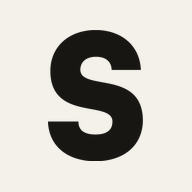
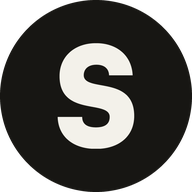
Circular cream-on-dark mark and short brand-first tab titles
Icon: the S now sits in a solid near-black circle in cream, which
reads on light, dark and red-tinted tab bars alike - the dark disc
carries it on light chrome, the cream S carries it on dark. PNG
sizes and the BMP ICO (16/32/48) carry a real AND mask so the
circle's corners stay transparent; apple-touch stays a full-bleed
square since iOS paints alpha black and applies its own rounding.

Titles are brand-first and short so tabs read as SuDu at a glance:
'SuDu Studio', 'SuDu Studio - Work', '- The Studio', '- Contact'.
Open Graph titles and meta descriptions keep the longer keyword
copy, so link previews and search snippets are unchanged.

Claude-Session: https://claude.ai/code/session_01EmbicvmHmqrZucEKvQSx6b

diff --git a/index.html b/index.html
@@ -9,7 +9,7 @@
 <link rel="icon" type="image/png" sizes="192x192" href="/sudu-icon-192.png">
 <link rel="apple-touch-icon" sizes="180x180" href="/sudu-icon-180.png">
 
-<title>SuDu Studio | Architecture + Interior Design | Edmonton, Alberta</title>
+<title>SuDu Studio</title>
 <meta name="description" content="SuDu Studio is an Edmonton-based architecture and interior design practice. Custom homes, renovations, hospitality, retail and commercial design across Alberta and Western Canada.">
 <link rel="canonical" href="https://sudu.studio/">
 <meta property="og:title" content="SuDu Studio | Architecture + Interior Design | Edmonton, Alberta">

diff --git a/project.html b/project.html
@@ -9,7 +9,7 @@
 <link rel="icon" type="image/png" sizes="192x192" href="/sudu-icon-192.png">
 <link rel="apple-touch-icon" sizes="180x180" href="/sudu-icon-180.png">
 
-<title>Project Case Studies | SuDu Studio Architecture Edmonton</title>
+<title>SuDu Studio &middot; Work</title>
 <meta name="description" content="Architecture and interior design case studies by SuDu Studio: custom residences, restaurants, retail and community projects in Edmonton and Western Canada.">
 <link rel="canonical" href="https://sudu.studio/project.html">
 <meta property="og:title" content="Project Case Studies | SuDu Studio Architecture Edmonton">

diff --git a/work.html b/work.html
@@ -9,7 +9,7 @@
 <link rel="icon" type="image/png" sizes="192x192" href="/sudu-icon-192.png">
 <link rel="apple-touch-icon" sizes="180x180" href="/sudu-icon-180.png">
 
-<title>Architecture + Design Projects in Edmonton | SuDu Studio</title>
+<title>SuDu Studio &middot; Work</title>
 <meta name="description" content="Selected work by SuDu Studio: custom residential architecture, restaurant and retail interiors, and commercial design in Edmonton, Calgary and Western Canada.">
 <link rel="canonical" href="https://sudu.studio/work.html">
 <meta property="og:title" content="Architecture + Design Projects in Edmonton | SuDu Studio">

diff --git a/studio.html b/studio.html
@@ -9,7 +9,7 @@
 <link rel="icon" type="image/png" sizes="192x192" href="/sudu-icon-192.png">
 <link rel="apple-touch-icon" sizes="180x180" href="/sudu-icon-180.png">
 
-<title>About Our Edmonton Architecture Firm | SuDu Studio</title>
+<title>SuDu Studio &middot; The Studio</title>
 <meta name="description" content="Meet SuDu Studio: three founders with decades of experience designing custom homes, hospitality and commercial spaces in Edmonton and across Alberta.">
 <link rel="canonical" href="https://sudu.studio/studio.html">
 <meta property="og:title" content="About Our Edmonton Architecture Firm | SuDu Studio">

diff --git a/contact.html b/contact.html
@@ -9,7 +9,7 @@
 <link rel="icon" type="image/png" sizes="192x192" href="/sudu-icon-192.png">
 <link rel="apple-touch-icon" sizes="180x180" href="/sudu-icon-180.png">
 
-<title>Contact an Edmonton Architect | SuDu Studio</title>
+<title>SuDu Studio &middot; Contact</title>
 <meta name="description" content="Planning a custom home, renovation or commercial project in Edmonton? Start a conversation with SuDu Studio, architecture and interior design in Alberta.">
 <link rel="canonical" href="https://sudu.studio/contact.html">
 <meta property="og:title" content="Contact an Edmonton Architect | SuDu Studio">
